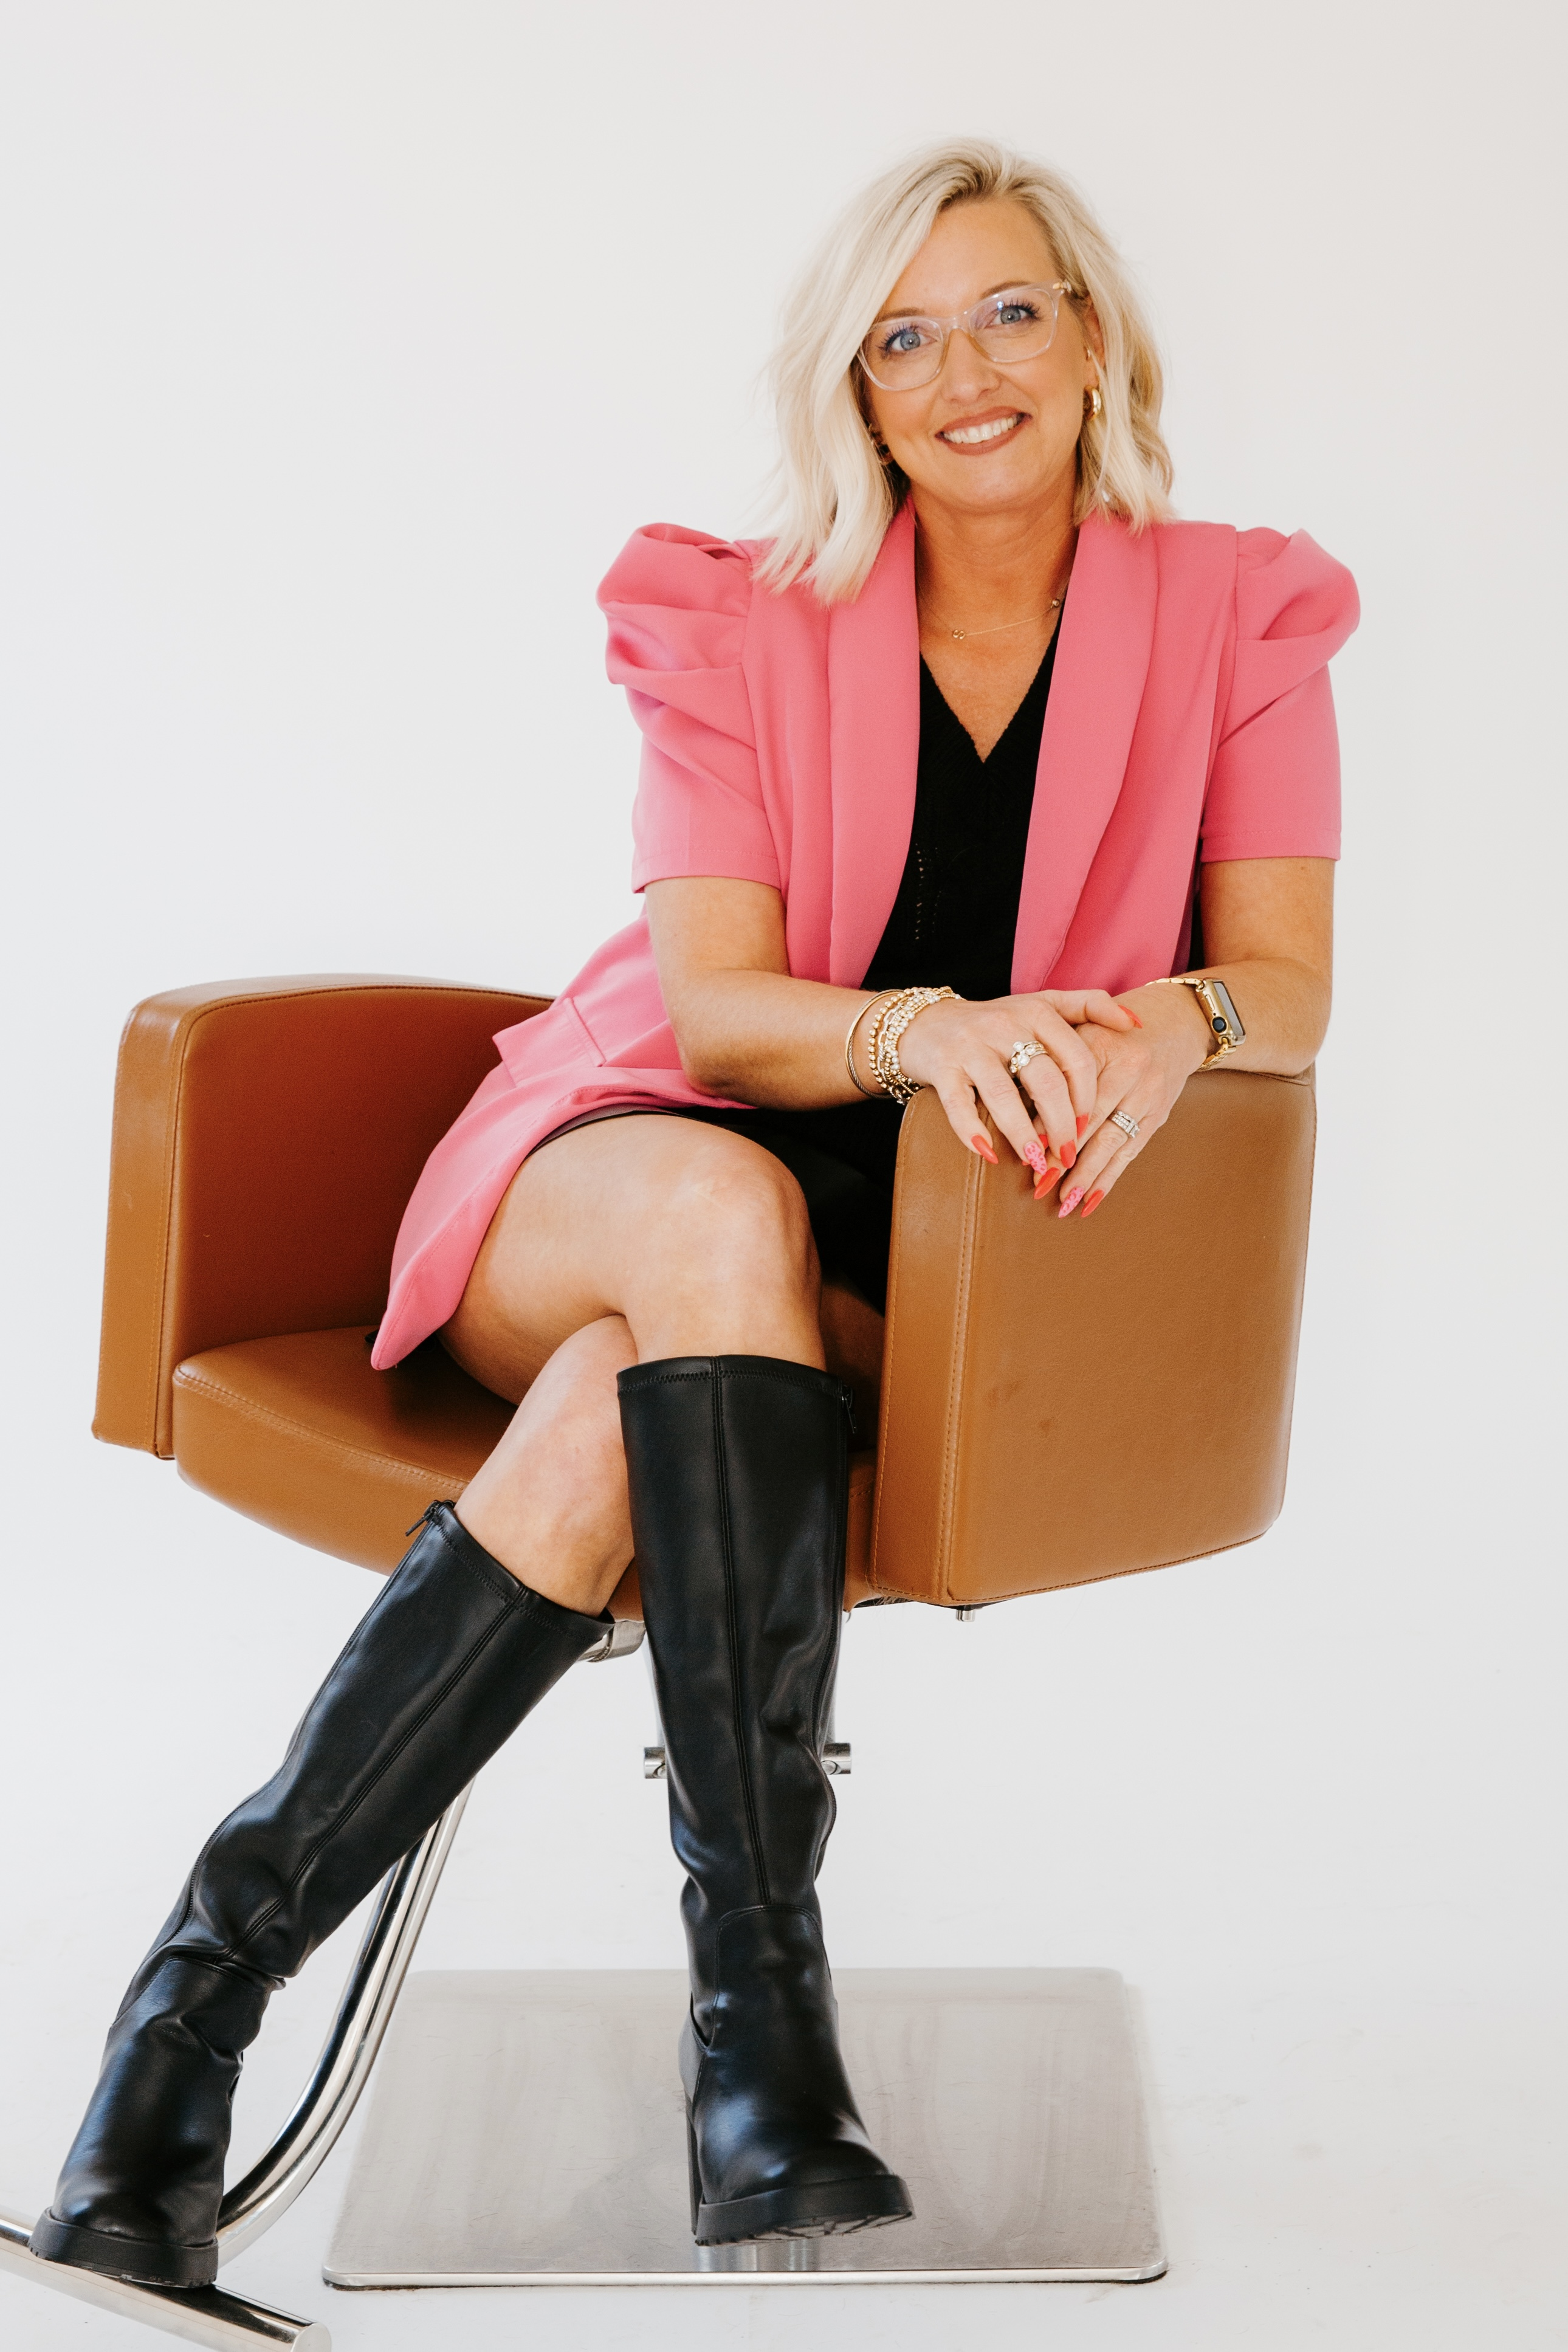
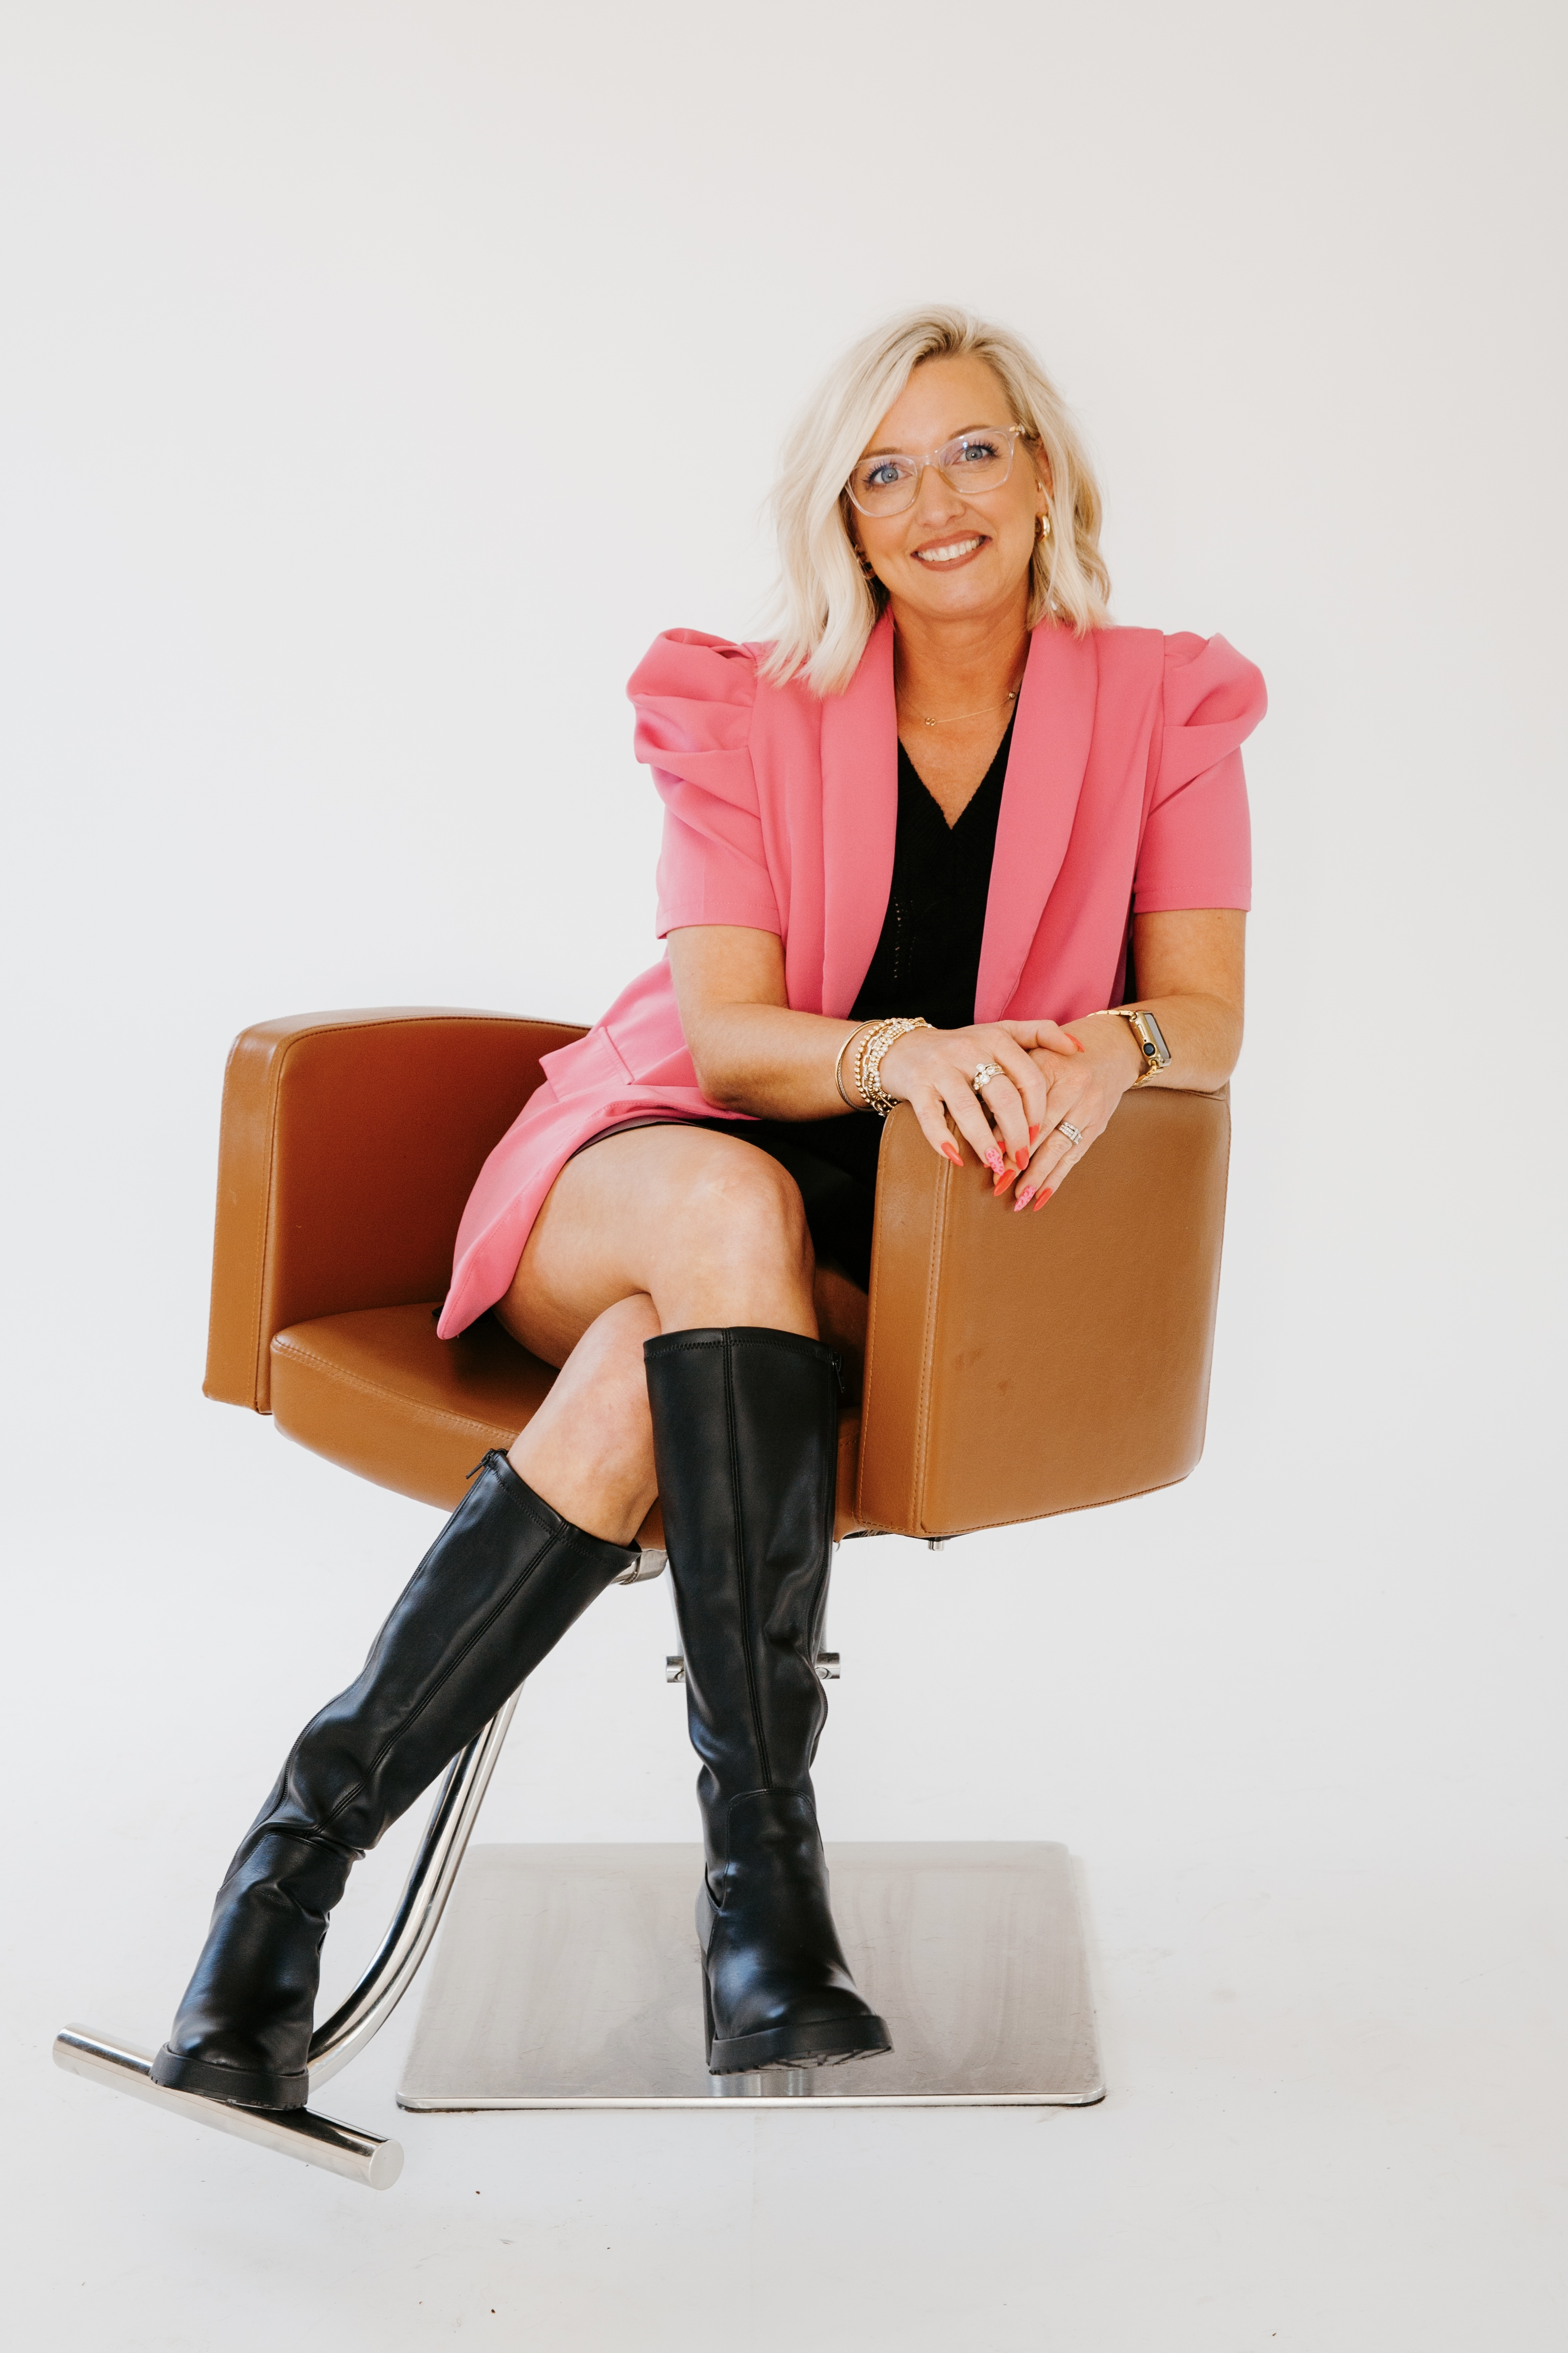
Update Hollie's image and zoom out team card images via object-fit contain
https://claude.ai/code/session_0196ymoXaVZFfzgGHJR8F1rM

diff --git a/css/style.css b/css/style.css
@@ -935,7 +935,8 @@ p:last-child { margin-bottom: 0; }
 .team-card__photo img {
   width: 100%;
   height: 100%;
-  object-fit: cover;
+  object-fit: contain;
+  background: var(--c-cream);
   transition: transform var(--t-slow), filter var(--t-slow);
   filter: saturate(0.92);
 }